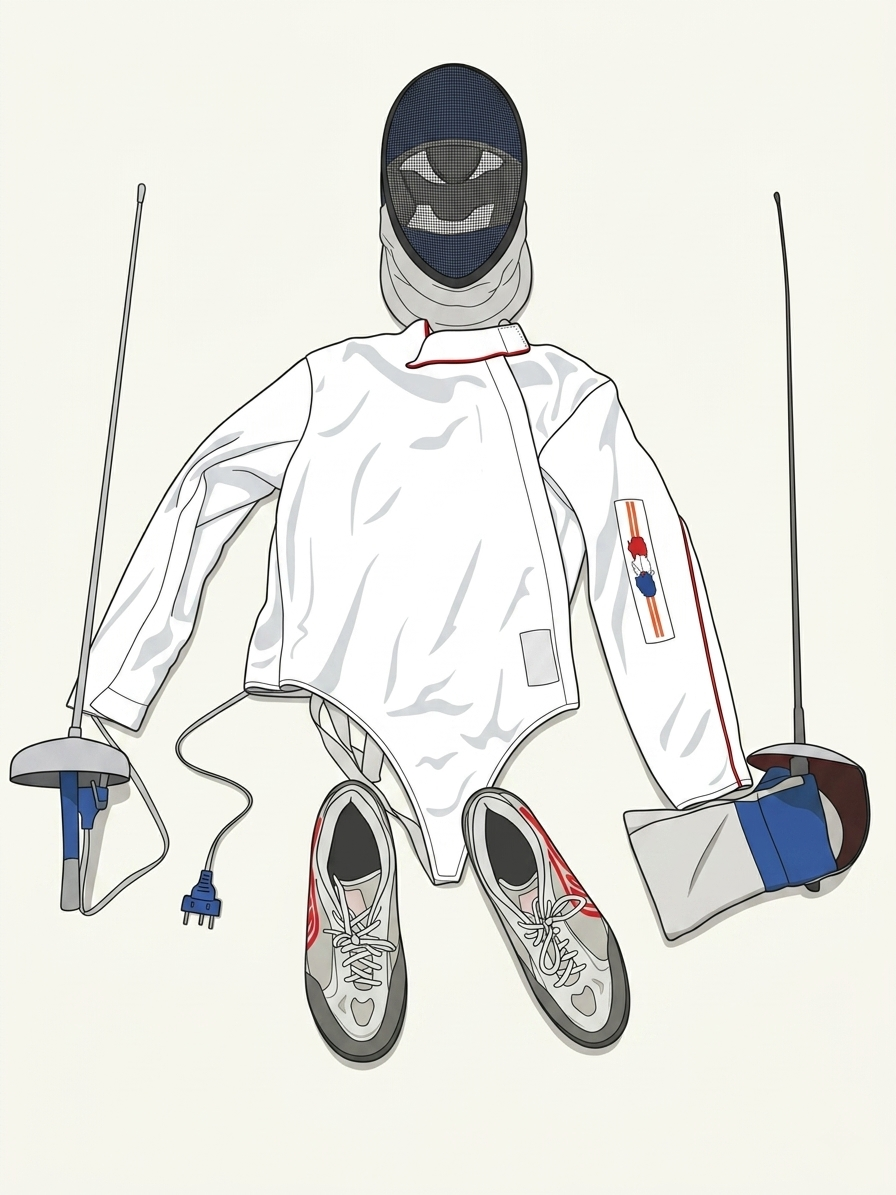
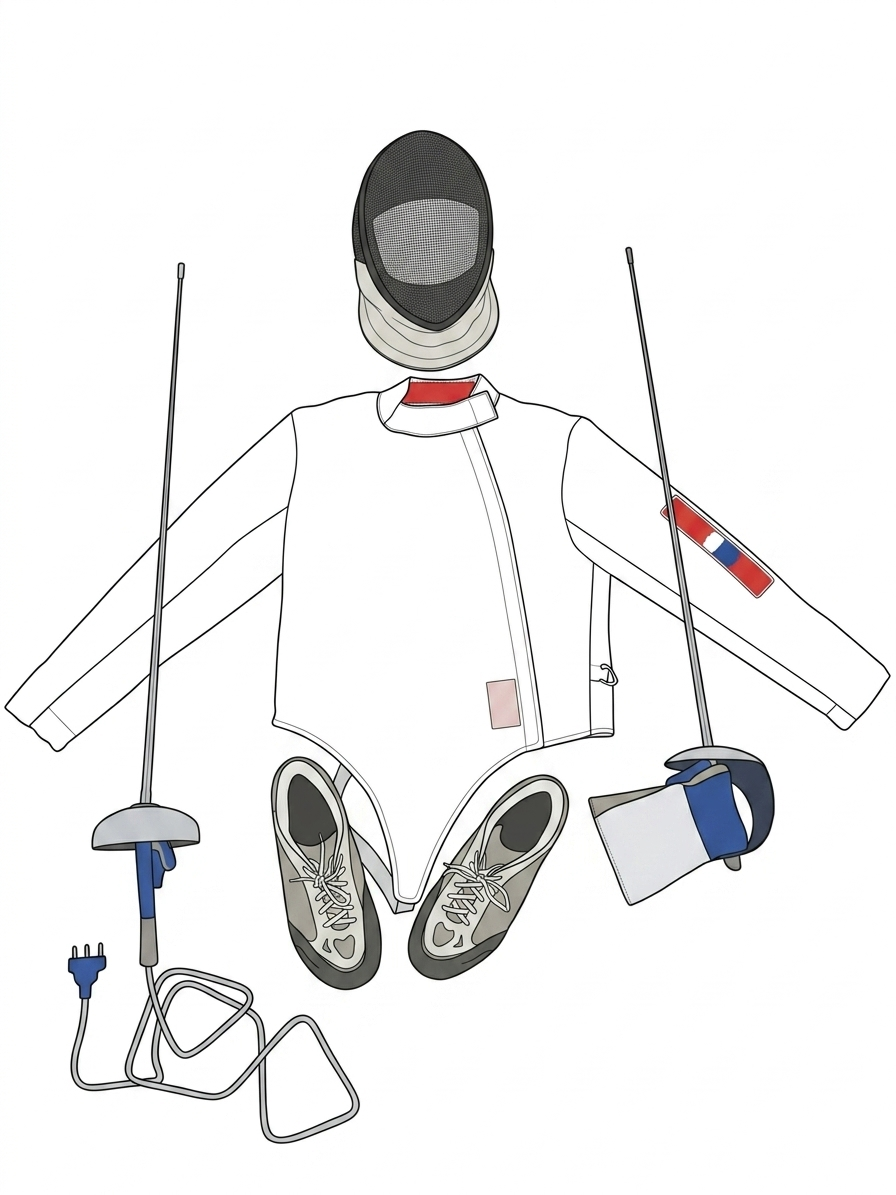
Added schermuitrusting_diagram

diff --git a/trainingsdagen.html b/trainingsdagen.html
@@ -33,8 +33,8 @@
             <figcaption></figcaption>
           </figure>
           <p>
-            Voor het geval wij vergeten het schema te updaten, de
-            schoolvakanties kunt u vinden op
+            Voor het geval wij vergeten het schema te updaten, kunt u de
+            schoolvakanties vinden op
             <a
               href="https://www.rijksoverheid.nl/onderwerpen/schoolvakanties/overzicht-schoolvakanties-per-schooljaar"
               >Overzicht Shoolvakanties per Schooljaar</a

diff --git a/uitrusting.html b/uitrusting.html
@@ -40,7 +40,7 @@
 
         <figure class="flair">
           <img
-            src="images/schermuitrusting.png"
+            src="images/schermuitrusting_diagram.png"
             alt="Schermuitrusting"
             class="flair_image"
           />